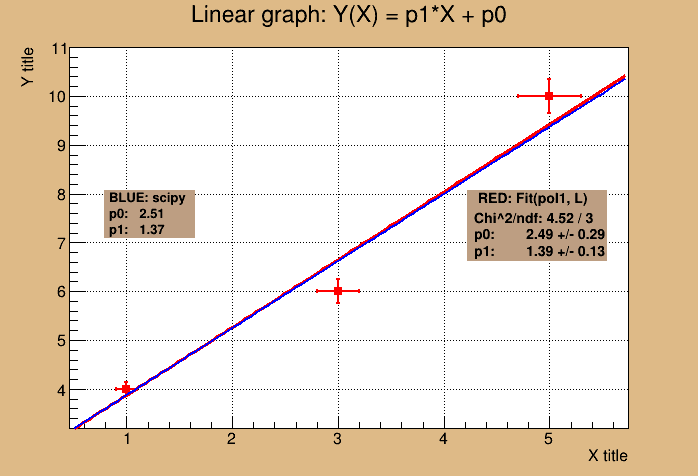
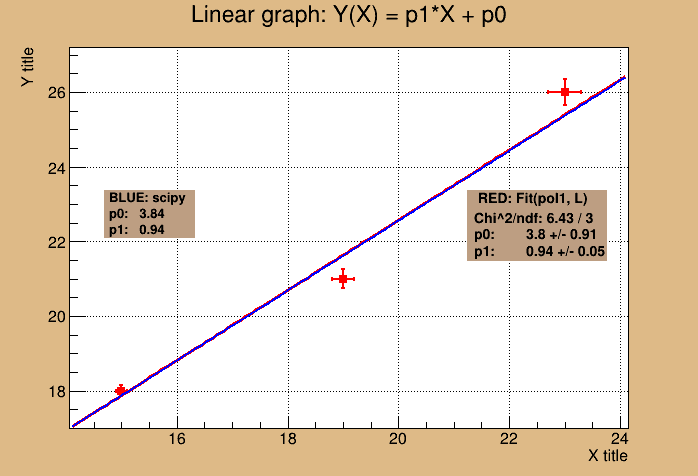
Fix _likelihood_function

diff --git a/hw_awg.py b/hw_awg.py
@@ -41,7 +41,7 @@ class BasicGraphErrors:
 
         self.graph_text = TPaveText(0.67, 0.6, 0.87, 0.45, "NDC")
 
-        self.function = TF1('fun1', '[0]*x+[1]', 0, 10)
+        self.function = TF1('fun1', '[0]*x+[1]', 0, 100)
         self.function.SetLineColor(4)
         self.function.SetLineWidth(2)
 
@@ -72,11 +72,12 @@ class Task1(BasicGraphErrors):
         a, b = params
         residuals = self.points[:, 1] - a * self.points[:, 0] + b
         likelihoods = (
-            1 / (np.sqrt(2 * np.pi) * self.errors[:, 1]) *
-            np.exp(-0.5 * ((residuals / self.errors[:, 1]) ** 2))
+            -np.log(2 * np.pi) / 2 - np.log(self.errors[:, 1]) -
+            ((residuals / self.errors[:, 1]) ** 2) / 2
         )
-
-        return -np.sum(np.log(likelihoods))
+        # Возвращаем отрицательный логарифм функции правдоподобия
+        # (так как minimize ищет минимум)
+        return -np.sum(likelihoods) 
 
     def solution_by_scipy(self):
         """Решение №1.
@@ -127,7 +128,7 @@ class Task1(BasicGraphErrors):
 if __name__ == '__main__':
     Task1(
         1,
-        [[1, 4], [3, 6], [5, 10]],
+        [[15, 18], [19, 21], [23, 26]],
         [[0.1, 0.15], [0.2, 0.25], [0.3, 0.35]]
     )
     Task1(
